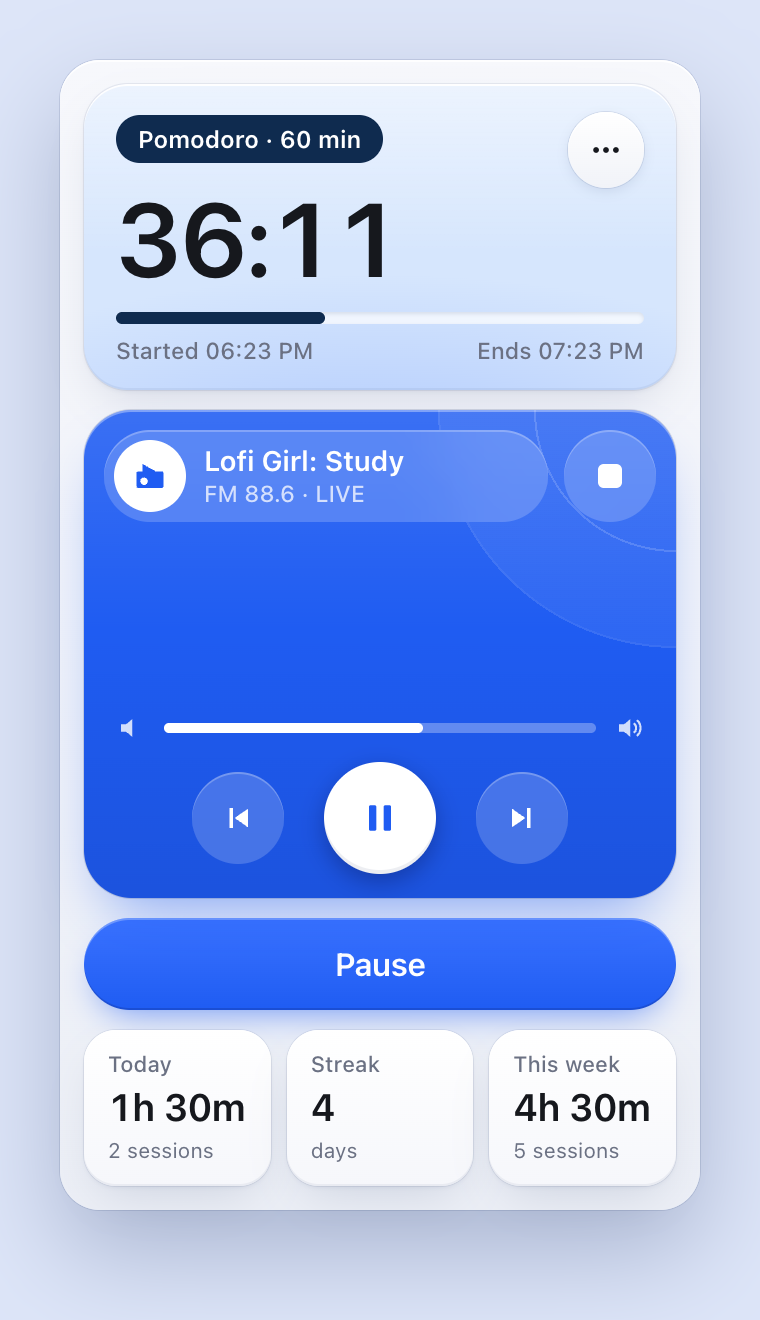
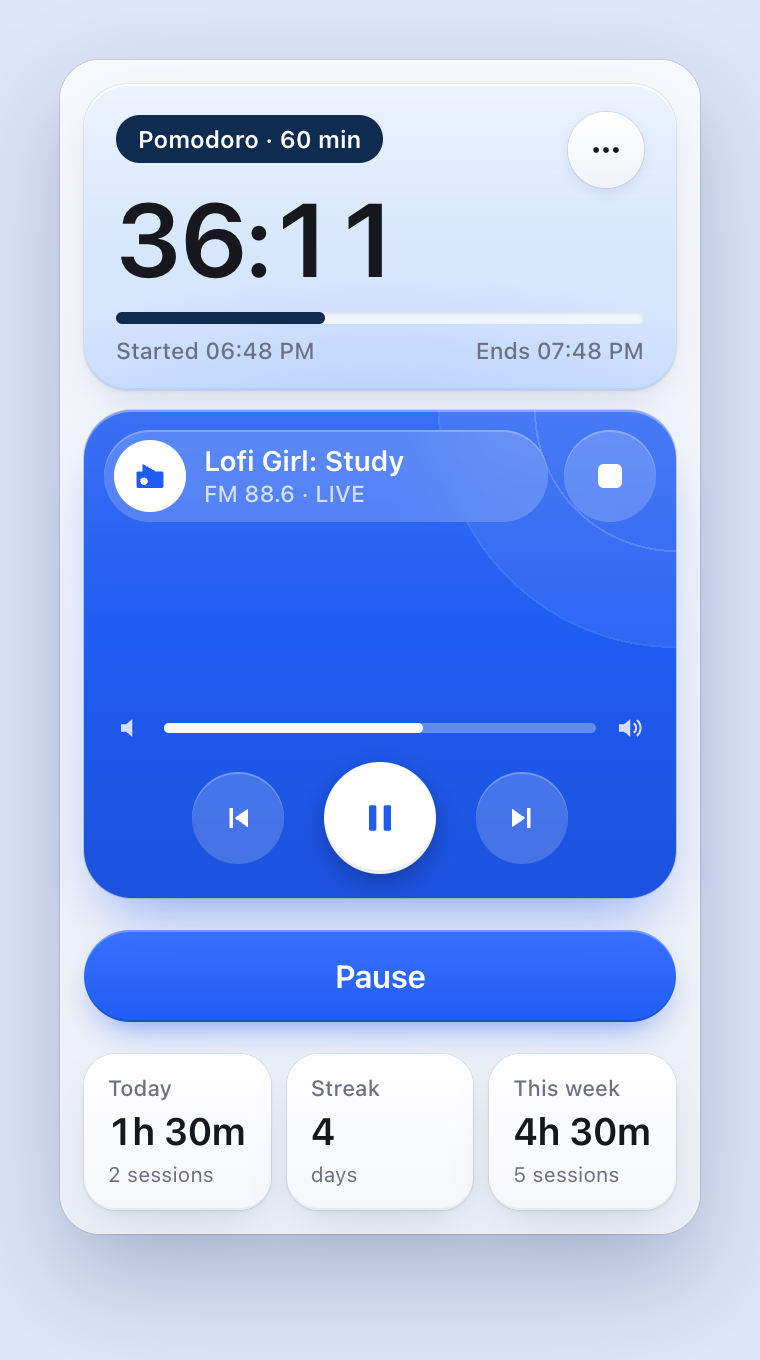
More room under the player and the main buttons

diff --git a/src/panel.html b/src/panel.html
@@ -117,6 +117,8 @@ body.preview .panel{border-radius:20px;box-shadow:inset 0 1px 0 rgba(255,255,255
 
 /* buttons: the main action solid blue, a second action a raised card-coloured pill beside it */
 .duo{display:grid;grid-auto-flow:column;grid-auto-columns:1fr;gap:10px}
+/* A little more room under the player and under the main buttons, so they don't crowd what follows. */
+.player,#actions{margin-bottom:6px}
 .duo button{min-width:0;height:46px;border-radius:99px;font:600 16px var(--round);letter-spacing:-.01em}
 .duo .primary{color:#fff;background:linear-gradient(#3a72ff,#1f5cf2);box-shadow:inset 0 1px 0 rgba(255,255,255,.3),inset 0 -1px 0 rgba(0,0,40,.15),0 8px 18px -8px rgba(31,92,242,.7)}
 .duo .secondary{color:var(--ink);background:var(--card);box-shadow:var(--bevel)}
